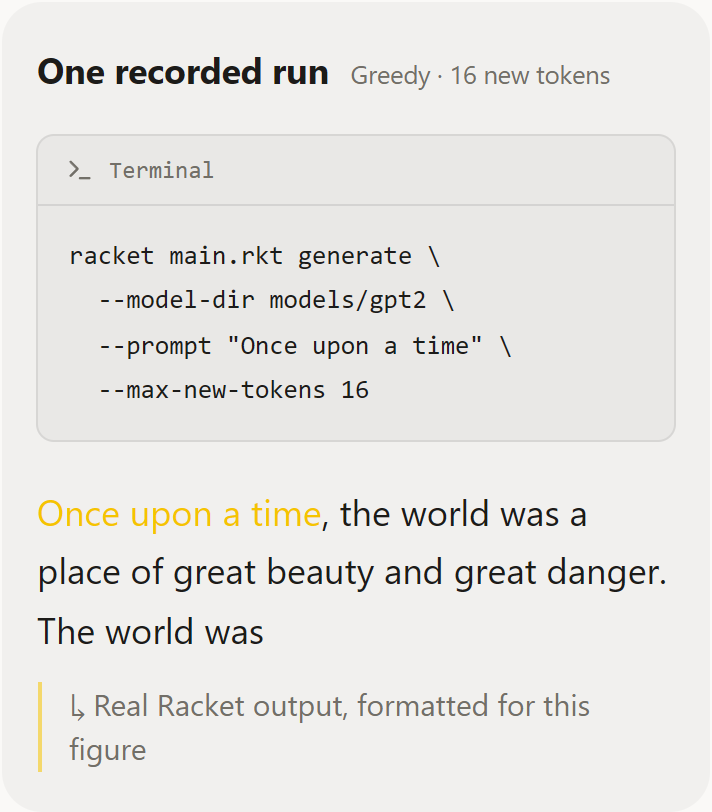
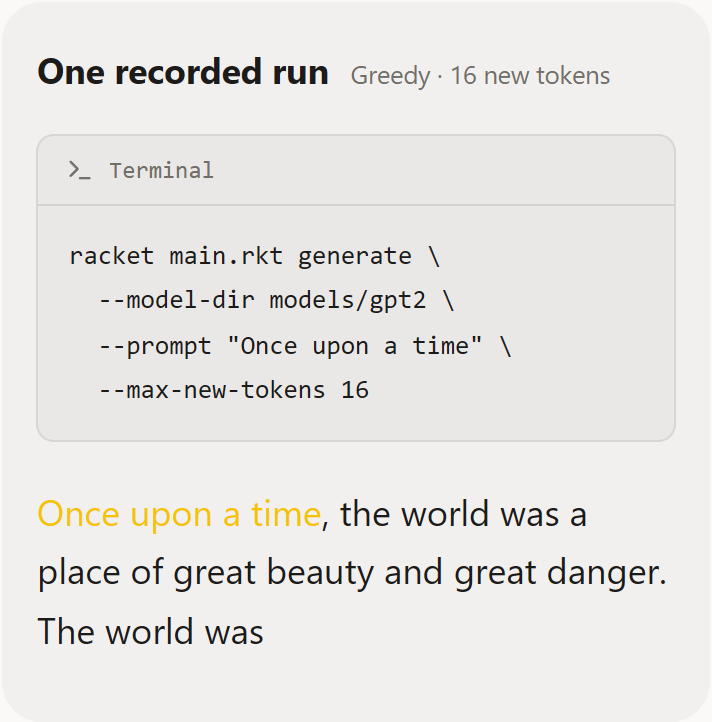
Refine GPT-2 project title and terminal preview

diff --git a/src/data.ts b/src/data.ts
@@ -50,10 +50,10 @@ const scrabbleScreenshot = {
 export const projects = [
   {
     id: 'gpt2-rkt',
-    title: 'gpt-2 in racket',
+    title: 'gpt-2 in racket λ',
     preview: {
       image: '/projects/gpt2-rkt/recorded-run.png',
-      imageSize: { width: 712, height: 812 },
+      imageSize: { width: 712, height: 722 },
     },
     description: 'a gpt-2 small inference engine in pure racket',
     collaborator: { name: 'amaar', website: 'https://amaarsy.com/' },
